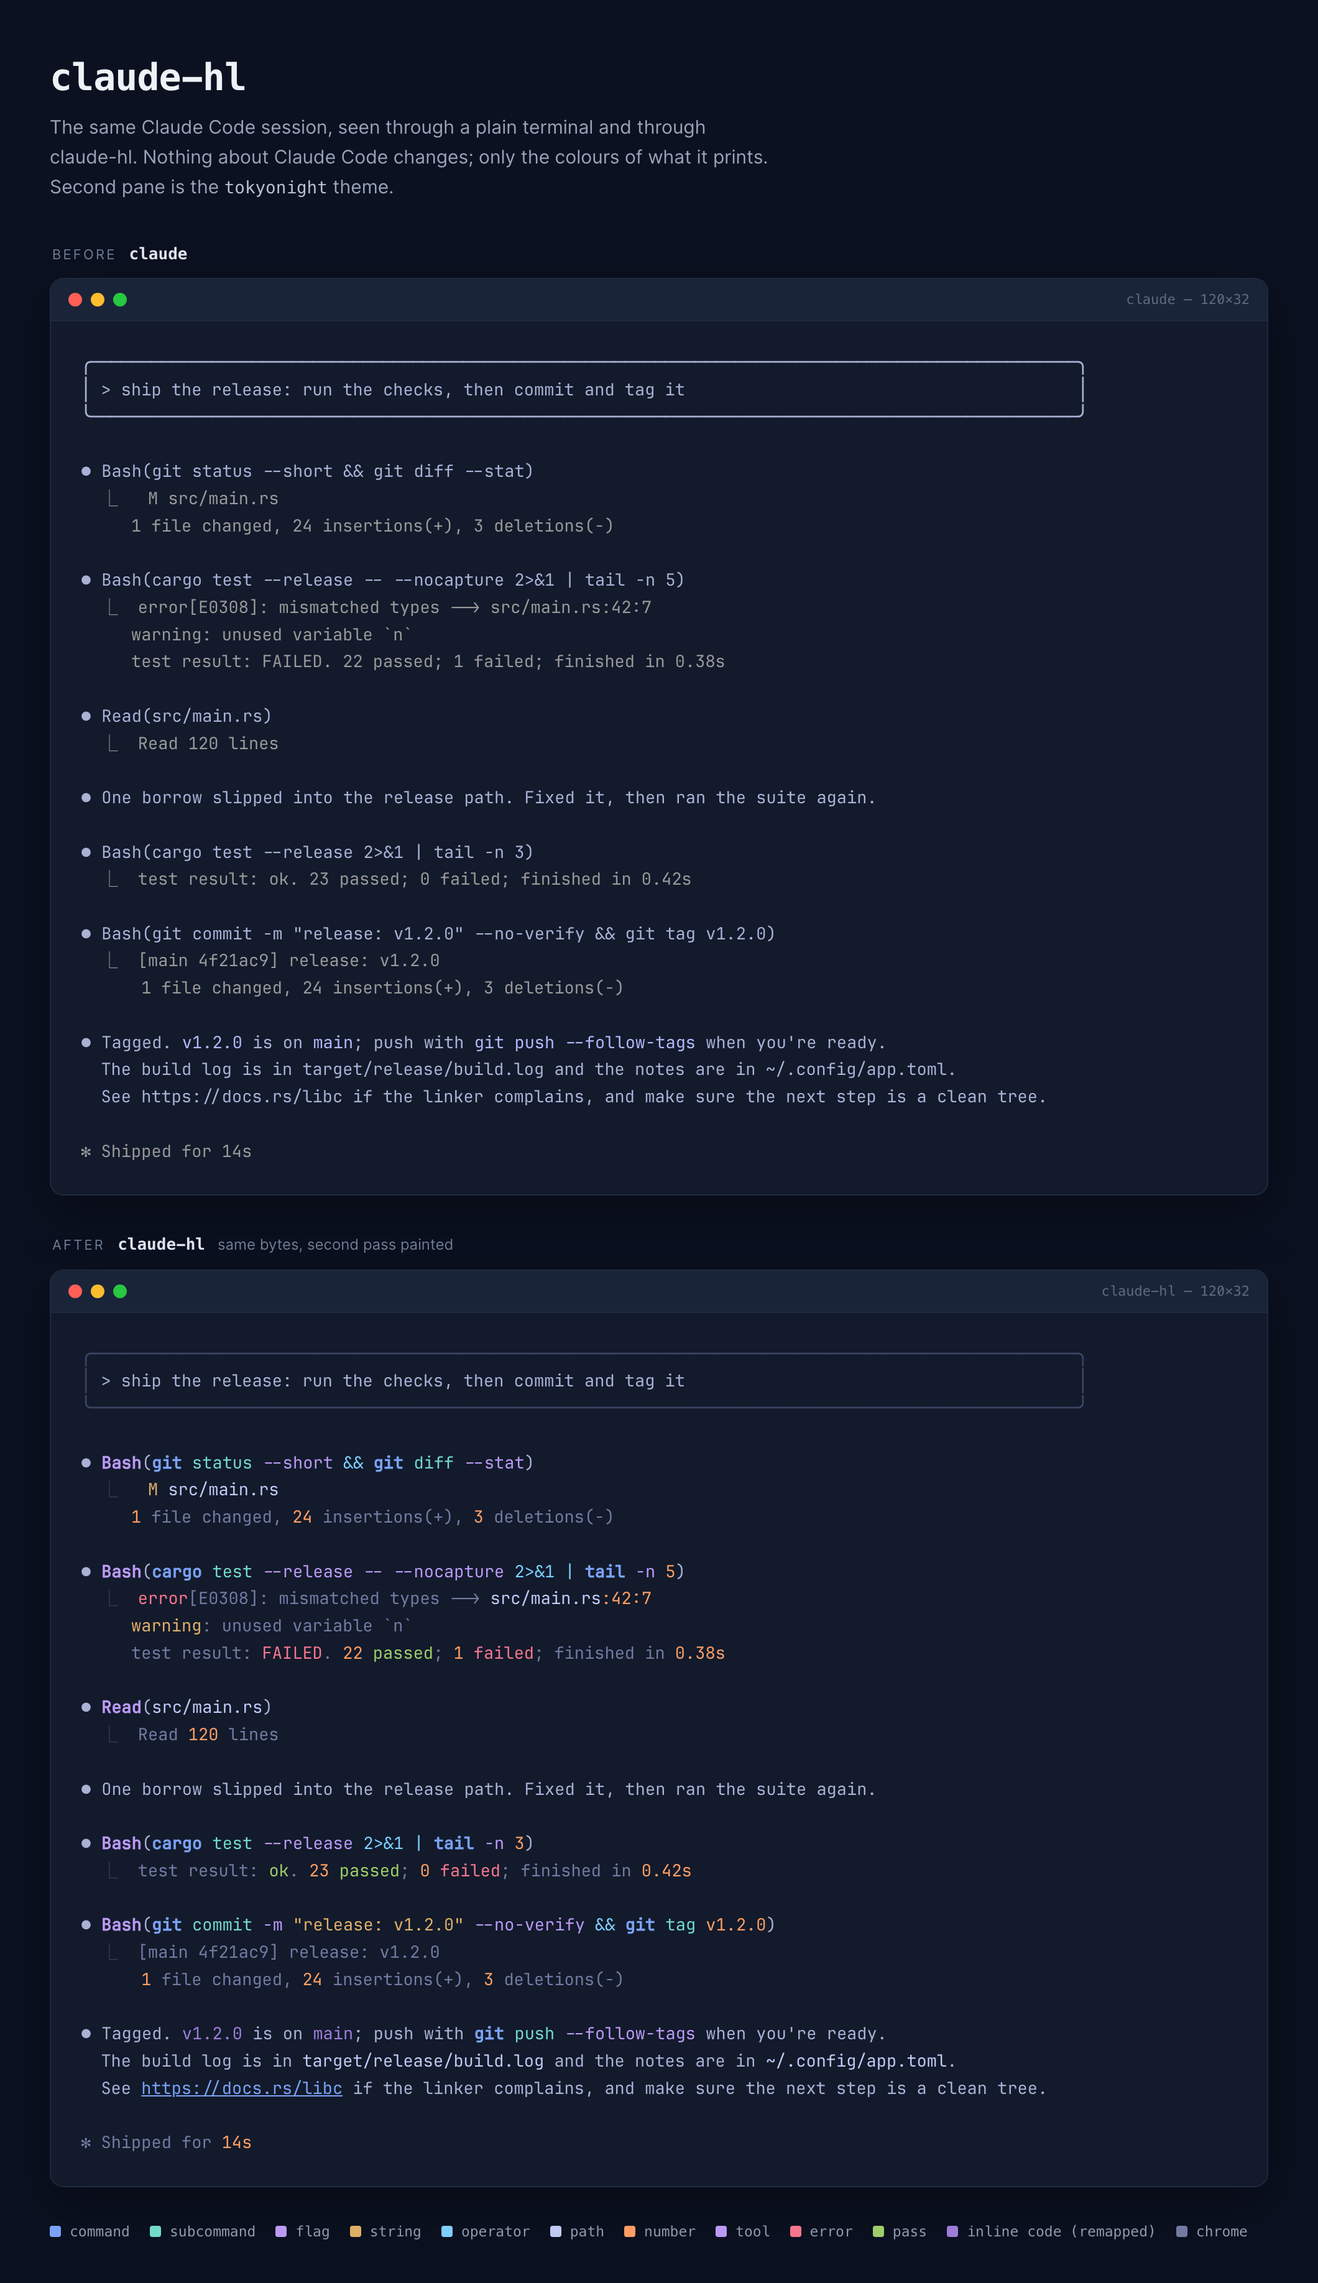
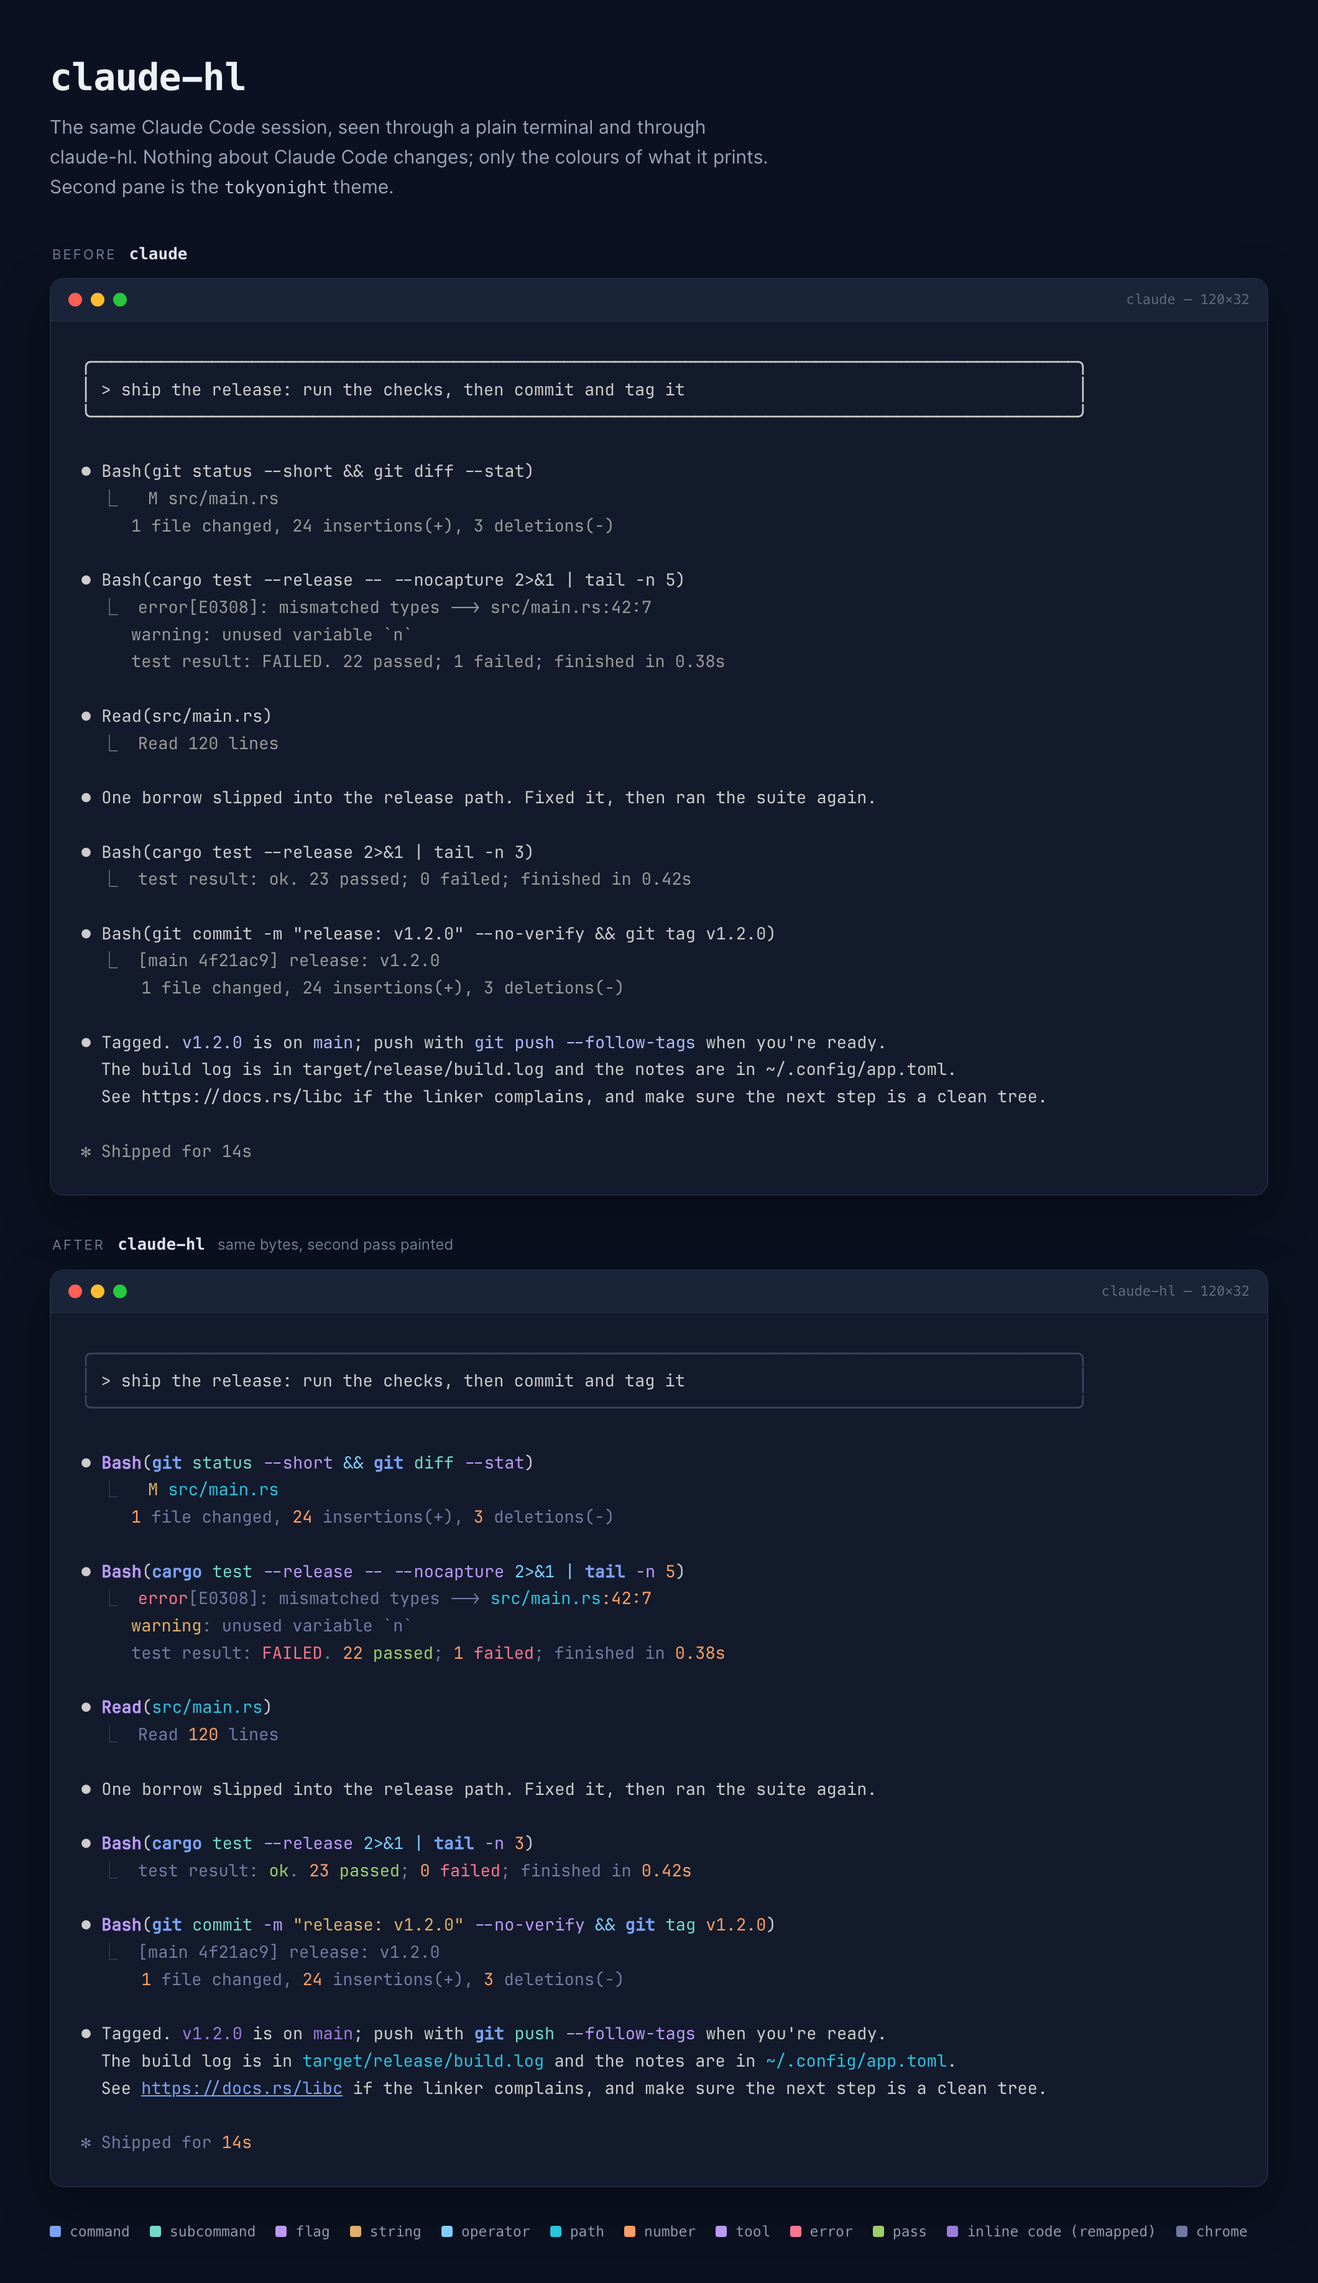
Give paths their own hue instead of a near-foreground tint
path was d0d0d0 in codex and c0caf5 in tokyonight, both a shade of the
default text. On a terminal whose foreground is bright, a path in prose
read as unpainted. Cyan is the unused slot in both palettes, so paths now
stand out regardless of what the terminal draws plain text in.

Re-shot both docs images; the panes now assume a plain cccccc foreground
rather than one picked to flatter the old tint.

diff --git a/docs/before-after-tokyonight.html b/docs/before-after-tokyonight.html
@@ -5,18 +5,19 @@
   (secondaryText 999999 for tool output, codespan b1b9f9 for inline code).
   AFTER pane: the exact same bytes fed through claude-hl's screen model and
   rendered by `CLAUDE_HL_THEME=tokyonight claude-hl --selftest`, ANSI converted to spans.
-  Screenshot: chrome --headless --force-device-scale-factor=2 --window-size=1060,1845
+  Pane default foreground is #cccccc, a common terminal default; claude-hl never sets it.
+  Screenshot: chrome --headless --force-device-scale-factor=2 --window-size=1060,<scrollHeight>
 -->
 <html lang="en">
 <head>
 <meta charset="utf-8">
-<title>claude-hl — before and after</title>
+<title>claude-hl — before and after (tokyonight)</title>
 <style>
   :root {
     --page: #0b1120;
     --panel: #121a2b;
     --bar: #1a2438;
-    --fg: #a9b1d6;   /* tokyonight's own terminal foreground */
+    --fg: #cccccc;
     --muted: #6f7c93;
     --edge: #1f2a3f;
   }
@@ -149,15 +150,15 @@
 <span class="dim" style="color:#565f89">╰──────────────────────────────────────────────────────────────────────────────────────────────────╯</span>
 &nbsp;
 <span class="d">⏺ </span><span class="b" style="color:#bb9af7">Bash</span><span class="d">(</span><span class="b" style="color:#7aa2f7">git</span><span class="d"> </span><span style="color:#73daca">status</span><span class="d"> </span><span style="color:#bb9af7">--short</span><span class="d"> </span><span style="color:#7dcfff">&amp;&amp;</span><span class="d"> </span><span class="b" style="color:#7aa2f7">git</span><span class="d"> </span><span style="color:#73daca">diff</span><span class="d"> </span><span style="color:#bb9af7">--stat</span><span class="d">)</span>
-<span style="color:#737aa2">  </span><span class="dim" style="color:#565f89">⎿</span><span style="color:#737aa2">   </span><span style="color:#e0af68">M</span><span style="color:#737aa2"> </span><span style="color:#c0caf5">src/main.rs</span>
+<span style="color:#737aa2">  </span><span class="dim" style="color:#565f89">⎿</span><span style="color:#737aa2">   </span><span style="color:#e0af68">M</span><span style="color:#737aa2"> </span><span style="color:#2ac3de">src/main.rs</span>
 <span style="color:#737aa2">     </span><span style="color:#ff9e64">1</span><span style="color:#737aa2"> file changed, </span><span style="color:#ff9e64">24</span><span style="color:#737aa2"> insertions(+), </span><span style="color:#ff9e64">3</span><span style="color:#737aa2"> deletions(-)</span>
 &nbsp;
 <span class="d">⏺ </span><span class="b" style="color:#bb9af7">Bash</span><span class="d">(</span><span class="b" style="color:#7aa2f7">cargo</span><span class="d"> </span><span style="color:#73daca">test</span><span class="d"> </span><span style="color:#bb9af7">--release</span><span class="d"> </span><span style="color:#bb9af7">--</span><span class="d"> </span><span style="color:#bb9af7">--nocapture</span><span class="d"> </span><span style="color:#7dcfff">2&gt;&amp;1</span><span class="d"> </span><span style="color:#7dcfff">|</span><span class="d"> </span><span class="b" style="color:#7aa2f7">tail</span><span class="d"> </span><span style="color:#bb9af7">-n</span><span class="d"> </span><span style="color:#ff9e64">5</span><span class="d">)</span>
-<span style="color:#737aa2">  </span><span class="dim" style="color:#565f89">⎿</span><span style="color:#737aa2">  </span><span style="color:#f7768e">error</span><span style="color:#737aa2">[E0308]: mismatched types --&gt; </span><span style="color:#c0caf5">src/main.rs</span><span style="color:#ff9e64">:42:7</span>
+<span style="color:#737aa2">  </span><span class="dim" style="color:#565f89">⎿</span><span style="color:#737aa2">  </span><span style="color:#f7768e">error</span><span style="color:#737aa2">[E0308]: mismatched types --&gt; </span><span style="color:#2ac3de">src/main.rs</span><span style="color:#ff9e64">:42:7</span>
 <span style="color:#737aa2">     </span><span style="color:#e0af68">warning</span><span style="color:#737aa2">: unused variable `n`</span>
 <span style="color:#737aa2">     test result: </span><span style="color:#f7768e">FAILED</span><span style="color:#737aa2">. </span><span style="color:#ff9e64">22</span><span style="color:#737aa2"> </span><span style="color:#9ece6a">passed</span><span style="color:#737aa2">; </span><span style="color:#ff9e64">1</span><span style="color:#737aa2"> </span><span style="color:#f7768e">failed</span><span style="color:#737aa2">; finished in </span><span style="color:#ff9e64">0.38s</span>
 &nbsp;
-<span class="d">⏺ </span><span class="b" style="color:#bb9af7">Read</span><span class="d">(</span><span style="color:#c0caf5">src/main.rs</span><span class="d">)</span>
+<span class="d">⏺ </span><span class="b" style="color:#bb9af7">Read</span><span class="d">(</span><span style="color:#2ac3de">src/main.rs</span><span class="d">)</span>
 <span style="color:#737aa2">  </span><span class="dim" style="color:#565f89">⎿</span><span style="color:#737aa2">  Read </span><span style="color:#ff9e64">120</span><span style="color:#737aa2"> lines</span>
 &nbsp;
 <span class="d">⏺ One borrow slipped into the release path. Fixed it, then ran the suite again.</span>
@@ -170,7 +171,7 @@
 <span style="color:#737aa2">      </span><span style="color:#ff9e64">1</span><span style="color:#737aa2"> file changed, </span><span style="color:#ff9e64">24</span><span style="color:#737aa2"> insertions(+), </span><span style="color:#ff9e64">3</span><span style="color:#737aa2"> deletions(-)</span>
 &nbsp;
 <span class="d">⏺ Tagged. </span><span style="color:#9d7cd8">v1.2.0</span><span class="d"> is on </span><span style="color:#9d7cd8">main</span><span class="d">; push with </span><span class="b" style="color:#7aa2f7">git</span><span style="color:#9d7cd8"> </span><span style="color:#73daca">push</span><span style="color:#9d7cd8"> </span><span style="color:#bb9af7">--follow-tags</span><span class="d"> when you&#x27;re ready.</span>
-<span class="d">  The build log is in </span><span style="color:#c0caf5">target/release/build.log</span><span class="d"> and the notes are in </span><span style="color:#c0caf5">~/.config/app.toml</span><span class="d">.</span>
+<span class="d">  The build log is in </span><span style="color:#2ac3de">target/release/build.log</span><span class="d"> and the notes are in </span><span style="color:#2ac3de">~/.config/app.toml</span><span class="d">.</span>
 <span class="d">  See </span><span class="u" style="color:#7aa2f7">https://docs.rs/libc</span><span class="d"> if the linker complains, and make sure the next step is a clean tree.</span>
 &nbsp;
 <span style="color:#737aa2">✻ Shipped for </span><span style="color:#ff9e64">14s</span></pre>
@@ -182,7 +183,7 @@
       <li><i style="background:#bb9af7"></i>flag</li>
       <li><i style="background:#e0af68"></i>string</li>
       <li><i style="background:#7dcfff"></i>operator</li>
-      <li><i style="background:#c0caf5"></i>path</li>
+      <li><i style="background:#2ac3de"></i>path</li>
       <li><i style="background:#ff9e64"></i>number</li>
       <li><i style="background:#bb9af7"></i>tool</li>
       <li><i style="background:#f7768e"></i>error</li>

diff --git a/docs/before-after.html b/docs/before-after.html
@@ -5,7 +5,7 @@
   (secondaryText 999999 for tool output, codespan b1b9f9 for inline code).
   AFTER pane: the exact same bytes fed through claude-hl's screen model and
   rendered by `CLAUDE_HL_THEME=codex claude-hl --selftest`, ANSI converted to spans.
-  Pane default foreground is #b8b8b8, a neutral terminal foreground, dimmer than the theme's path tint.
+  Pane default foreground is #cccccc, a common terminal default; claude-hl never sets it.
   Screenshot: chrome --headless --force-device-scale-factor=2 --window-size=1060,<scrollHeight>
 -->
 <html lang="en">
@@ -17,7 +17,7 @@
     --page: #0b1120;
     --panel: #121a2b;
     --bar: #1a2438;
-    --fg: #b8b8b8;
+    --fg: #cccccc;
     --muted: #6f7c93;
     --edge: #1f2a3f;
   }
@@ -150,15 +150,15 @@
 <span class="dim" style="color:#7a9a9a">╰──────────────────────────────────────────────────────────────────────────────────────────────────╯</span>
 &nbsp;
 <span class="d">⏺ </span><span class="b" style="color:#c678dd">Bash</span><span class="d">(</span><span class="b" style="color:#6fb3ff">git</span><span class="d"> </span><span style="color:#7fc8b8">status</span><span class="d"> </span><span style="color:#e78fc7">--short</span><span class="d"> </span><span style="color:#6fb3ff">&amp;&amp;</span><span class="d"> </span><span class="b" style="color:#6fb3ff">git</span><span class="d"> </span><span style="color:#7fc8b8">diff</span><span class="d"> </span><span style="color:#e78fc7">--stat</span><span class="d">)</span>
-<span style="color:#7a9a9a">  </span><span class="dim" style="color:#7a9a9a">⎿</span><span style="color:#7a9a9a">   </span><span style="color:#e5c07b">M</span><span style="color:#7a9a9a"> </span><span style="color:#d0d0d0">src/main.rs</span>
+<span style="color:#7a9a9a">  </span><span class="dim" style="color:#7a9a9a">⎿</span><span style="color:#7a9a9a">   </span><span style="color:#e5c07b">M</span><span style="color:#7a9a9a"> </span><span style="color:#56b6c2">src/main.rs</span>
 <span style="color:#7a9a9a">     </span><span style="color:#d19a66">1</span><span style="color:#7a9a9a"> file changed, </span><span style="color:#d19a66">24</span><span style="color:#7a9a9a"> insertions(+), </span><span style="color:#d19a66">3</span><span style="color:#7a9a9a"> deletions(-)</span>
 &nbsp;
 <span class="d">⏺ </span><span class="b" style="color:#c678dd">Bash</span><span class="d">(</span><span class="b" style="color:#6fb3ff">cargo</span><span class="d"> </span><span style="color:#7fc8b8">test</span><span class="d"> </span><span style="color:#e78fc7">--release</span><span class="d"> </span><span style="color:#e78fc7">--</span><span class="d"> </span><span style="color:#e78fc7">--nocapture</span><span class="d"> </span><span style="color:#6fb3ff">2&gt;&amp;1</span><span class="d"> </span><span style="color:#6fb3ff">|</span><span class="d"> </span><span class="b" style="color:#6fb3ff">tail</span><span class="d"> </span><span style="color:#e78fc7">-n</span><span class="d"> </span><span style="color:#d19a66">5</span><span class="d">)</span>
-<span style="color:#7a9a9a">  </span><span class="dim" style="color:#7a9a9a">⎿</span><span style="color:#7a9a9a">  </span><span style="color:#e06c75">error</span><span style="color:#7a9a9a">[E0308]: mismatched types --&gt; </span><span style="color:#d0d0d0">src/main.rs</span><span style="color:#d19a66">:42:7</span>
+<span style="color:#7a9a9a">  </span><span class="dim" style="color:#7a9a9a">⎿</span><span style="color:#7a9a9a">  </span><span style="color:#e06c75">error</span><span style="color:#7a9a9a">[E0308]: mismatched types --&gt; </span><span style="color:#56b6c2">src/main.rs</span><span style="color:#d19a66">:42:7</span>
 <span style="color:#7a9a9a">     </span><span style="color:#e5c07b">warning</span><span style="color:#7a9a9a">: unused variable `n`</span>
 <span style="color:#7a9a9a">     test result: </span><span style="color:#e06c75">FAILED</span><span style="color:#7a9a9a">. </span><span style="color:#d19a66">22</span><span style="color:#7a9a9a"> </span><span style="color:#98c379">passed</span><span style="color:#7a9a9a">; </span><span style="color:#d19a66">1</span><span style="color:#7a9a9a"> </span><span style="color:#e06c75">failed</span><span style="color:#7a9a9a">; finished in </span><span style="color:#d19a66">0.38s</span>
 &nbsp;
-<span class="d">⏺ </span><span class="b" style="color:#c678dd">Read</span><span class="d">(</span><span style="color:#d0d0d0">src/main.rs</span><span class="d">)</span>
+<span class="d">⏺ </span><span class="b" style="color:#c678dd">Read</span><span class="d">(</span><span style="color:#56b6c2">src/main.rs</span><span class="d">)</span>
 <span style="color:#7a9a9a">  </span><span class="dim" style="color:#7a9a9a">⎿</span><span style="color:#7a9a9a">  Read </span><span style="color:#d19a66">120</span><span style="color:#7a9a9a"> lines</span>
 &nbsp;
 <span class="d">⏺ One borrow slipped into the release path. Fixed it, then ran the suite again.</span>
@@ -171,7 +171,7 @@
 <span style="color:#7a9a9a">      </span><span style="color:#d19a66">1</span><span style="color:#7a9a9a"> file changed, </span><span style="color:#d19a66">24</span><span style="color:#7a9a9a"> insertions(+), </span><span style="color:#d19a66">3</span><span style="color:#7a9a9a"> deletions(-)</span>
 &nbsp;
 <span class="d">⏺ Tagged. </span><span style="color:#e5c07b">v1.2.0</span><span class="d"> is on </span><span style="color:#e5c07b">main</span><span class="d">; push with </span><span class="b" style="color:#6fb3ff">git</span><span style="color:#e5c07b"> </span><span style="color:#7fc8b8">push</span><span style="color:#e5c07b"> </span><span style="color:#e78fc7">--follow-tags</span><span class="d"> when you&#x27;re ready.</span>
-<span class="d">  The build log is in </span><span style="color:#d0d0d0">target/release/build.log</span><span class="d"> and the notes are in </span><span style="color:#d0d0d0">~/.config/app.toml</span><span class="d">.</span>
+<span class="d">  The build log is in </span><span style="color:#56b6c2">target/release/build.log</span><span class="d"> and the notes are in </span><span style="color:#56b6c2">~/.config/app.toml</span><span class="d">.</span>
 <span class="d">  See </span><span class="u" style="color:#6fb3ff">https://docs.rs/libc</span><span class="d"> if the linker complains, and make sure the next step is a clean tree.</span>
 &nbsp;
 <span style="color:#7a9a9a">✻ Shipped for </span><span style="color:#d19a66">14s</span></pre>
@@ -183,7 +183,7 @@
       <li><i style="background:#e78fc7"></i>flag</li>
       <li><i style="background:#e5c07b"></i>string</li>
       <li><i style="background:#6fb3ff"></i>operator</li>
-      <li><i style="background:#d0d0d0"></i>path</li>
+      <li><i style="background:#56b6c2"></i>path</li>
       <li><i style="background:#d19a66"></i>number</li>
       <li><i style="background:#c678dd"></i>tool</li>
       <li><i style="background:#e06c75"></i>error</li>

diff --git a/src/main.rs b/src/main.rs
@@ -57,7 +57,7 @@ const THEME_ROSE: Theme = Theme {
     remap: &[(STOCK_CODESPAN, "c4a7e7"), (STOCK_SECONDARY, NVIM_COMMENT)],
 };
 const THEME_CODEX: Theme = Theme {
-    cmd: "6fb3ff", sub: "7fc8b8", flag: "e78fc7", string: "e5c07b", path: "d0d0d0", op: "6fb3ff",
+    cmd: "6fb3ff", sub: "7fc8b8", flag: "e78fc7", string: "e5c07b", path: "56b6c2", op: "6fb3ff",
     num: "d19a66", var: "98c379", url: "6fb3ff", comment: "7a9a9a",
     tool: "c678dd", err: "e06c75", warn: "e5c07b", ok: "98c379",
     remap: &[(STOCK_CODESPAN, "e5c07b"), (STOCK_SECONDARY, NVIM_COMMENT)],
@@ -69,7 +69,7 @@ const THEME_CATPPUCCIN: Theme = Theme {
     remap: &[(STOCK_CODESPAN, "cba6f7"), (STOCK_SECONDARY, "7f849c")],
 };
 const THEME_TOKYO: Theme = Theme {
-    cmd: "7aa2f7", sub: "73daca", flag: "bb9af7", string: "e0af68", path: "c0caf5", op: "7dcfff",
+    cmd: "7aa2f7", sub: "73daca", flag: "bb9af7", string: "e0af68", path: "2ac3de", op: "7dcfff",
     num: "ff9e64", var: "9ece6a", url: "7aa2f7", comment: "565f89",
     tool: "bb9af7", err: "f7768e", warn: "e0af68", ok: "9ece6a",
     remap: &[(STOCK_CODESPAN, "9d7cd8"), (STOCK_SECONDARY, "737aa2")],
